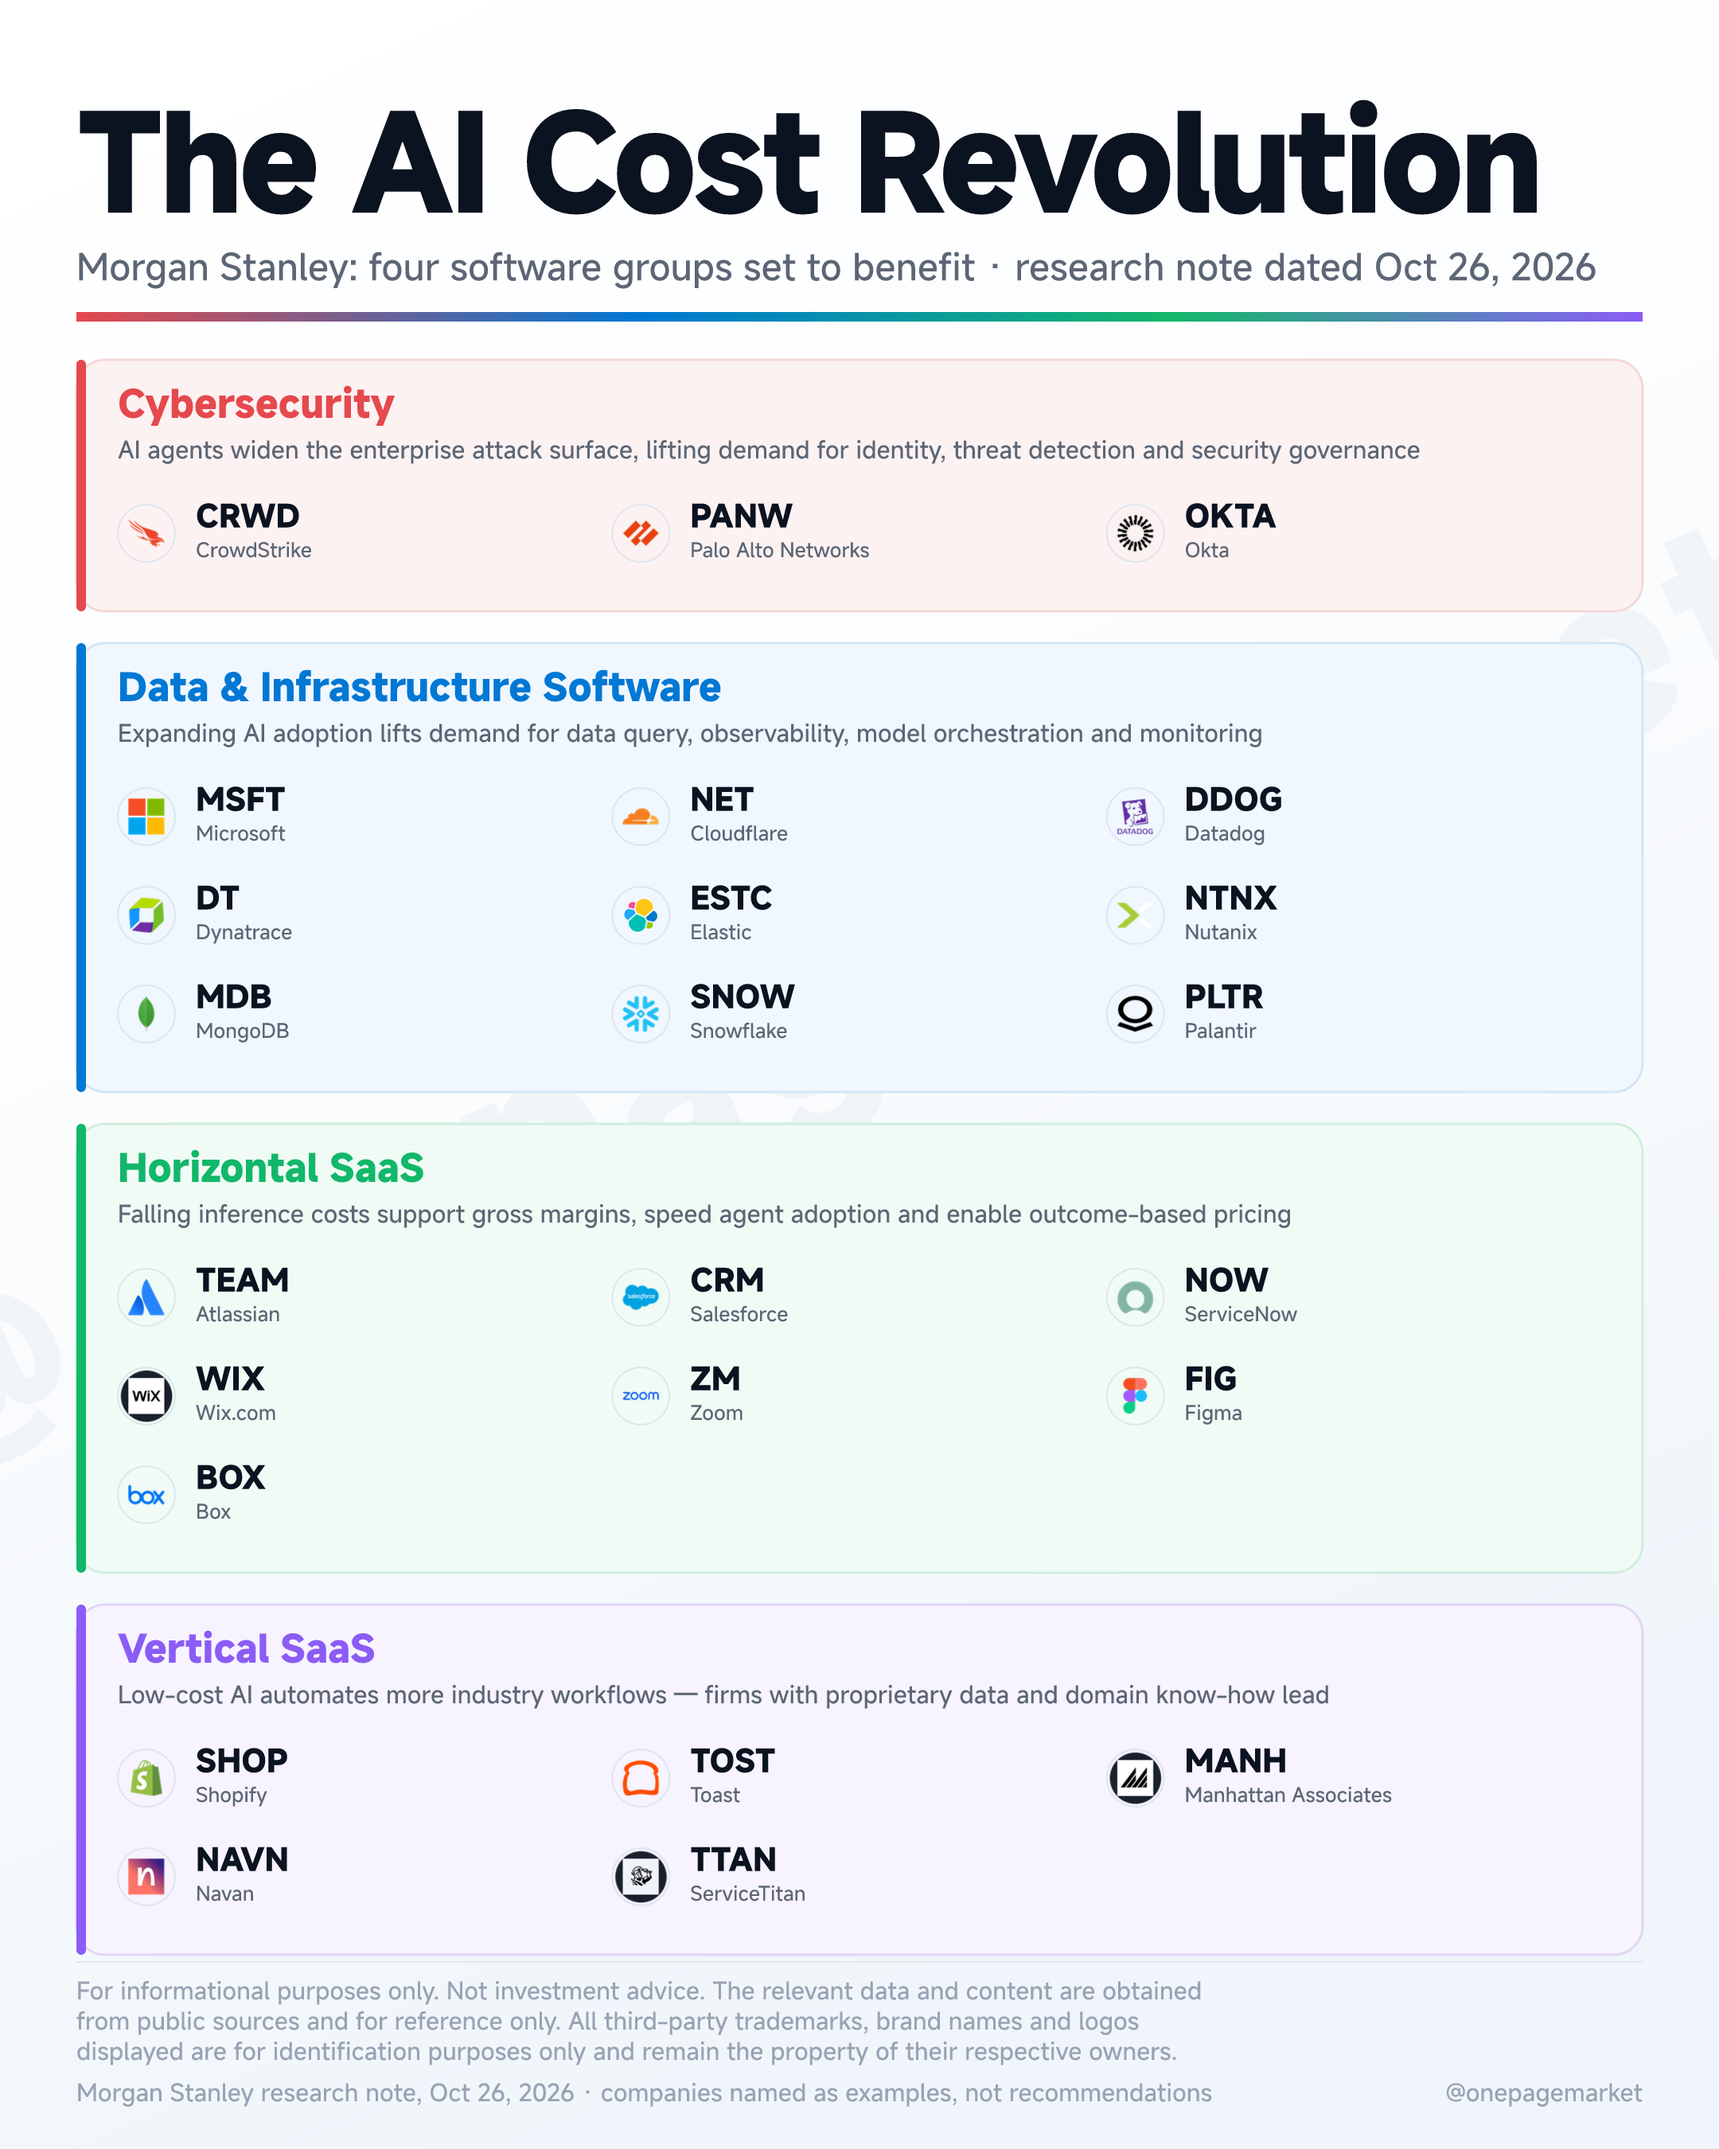
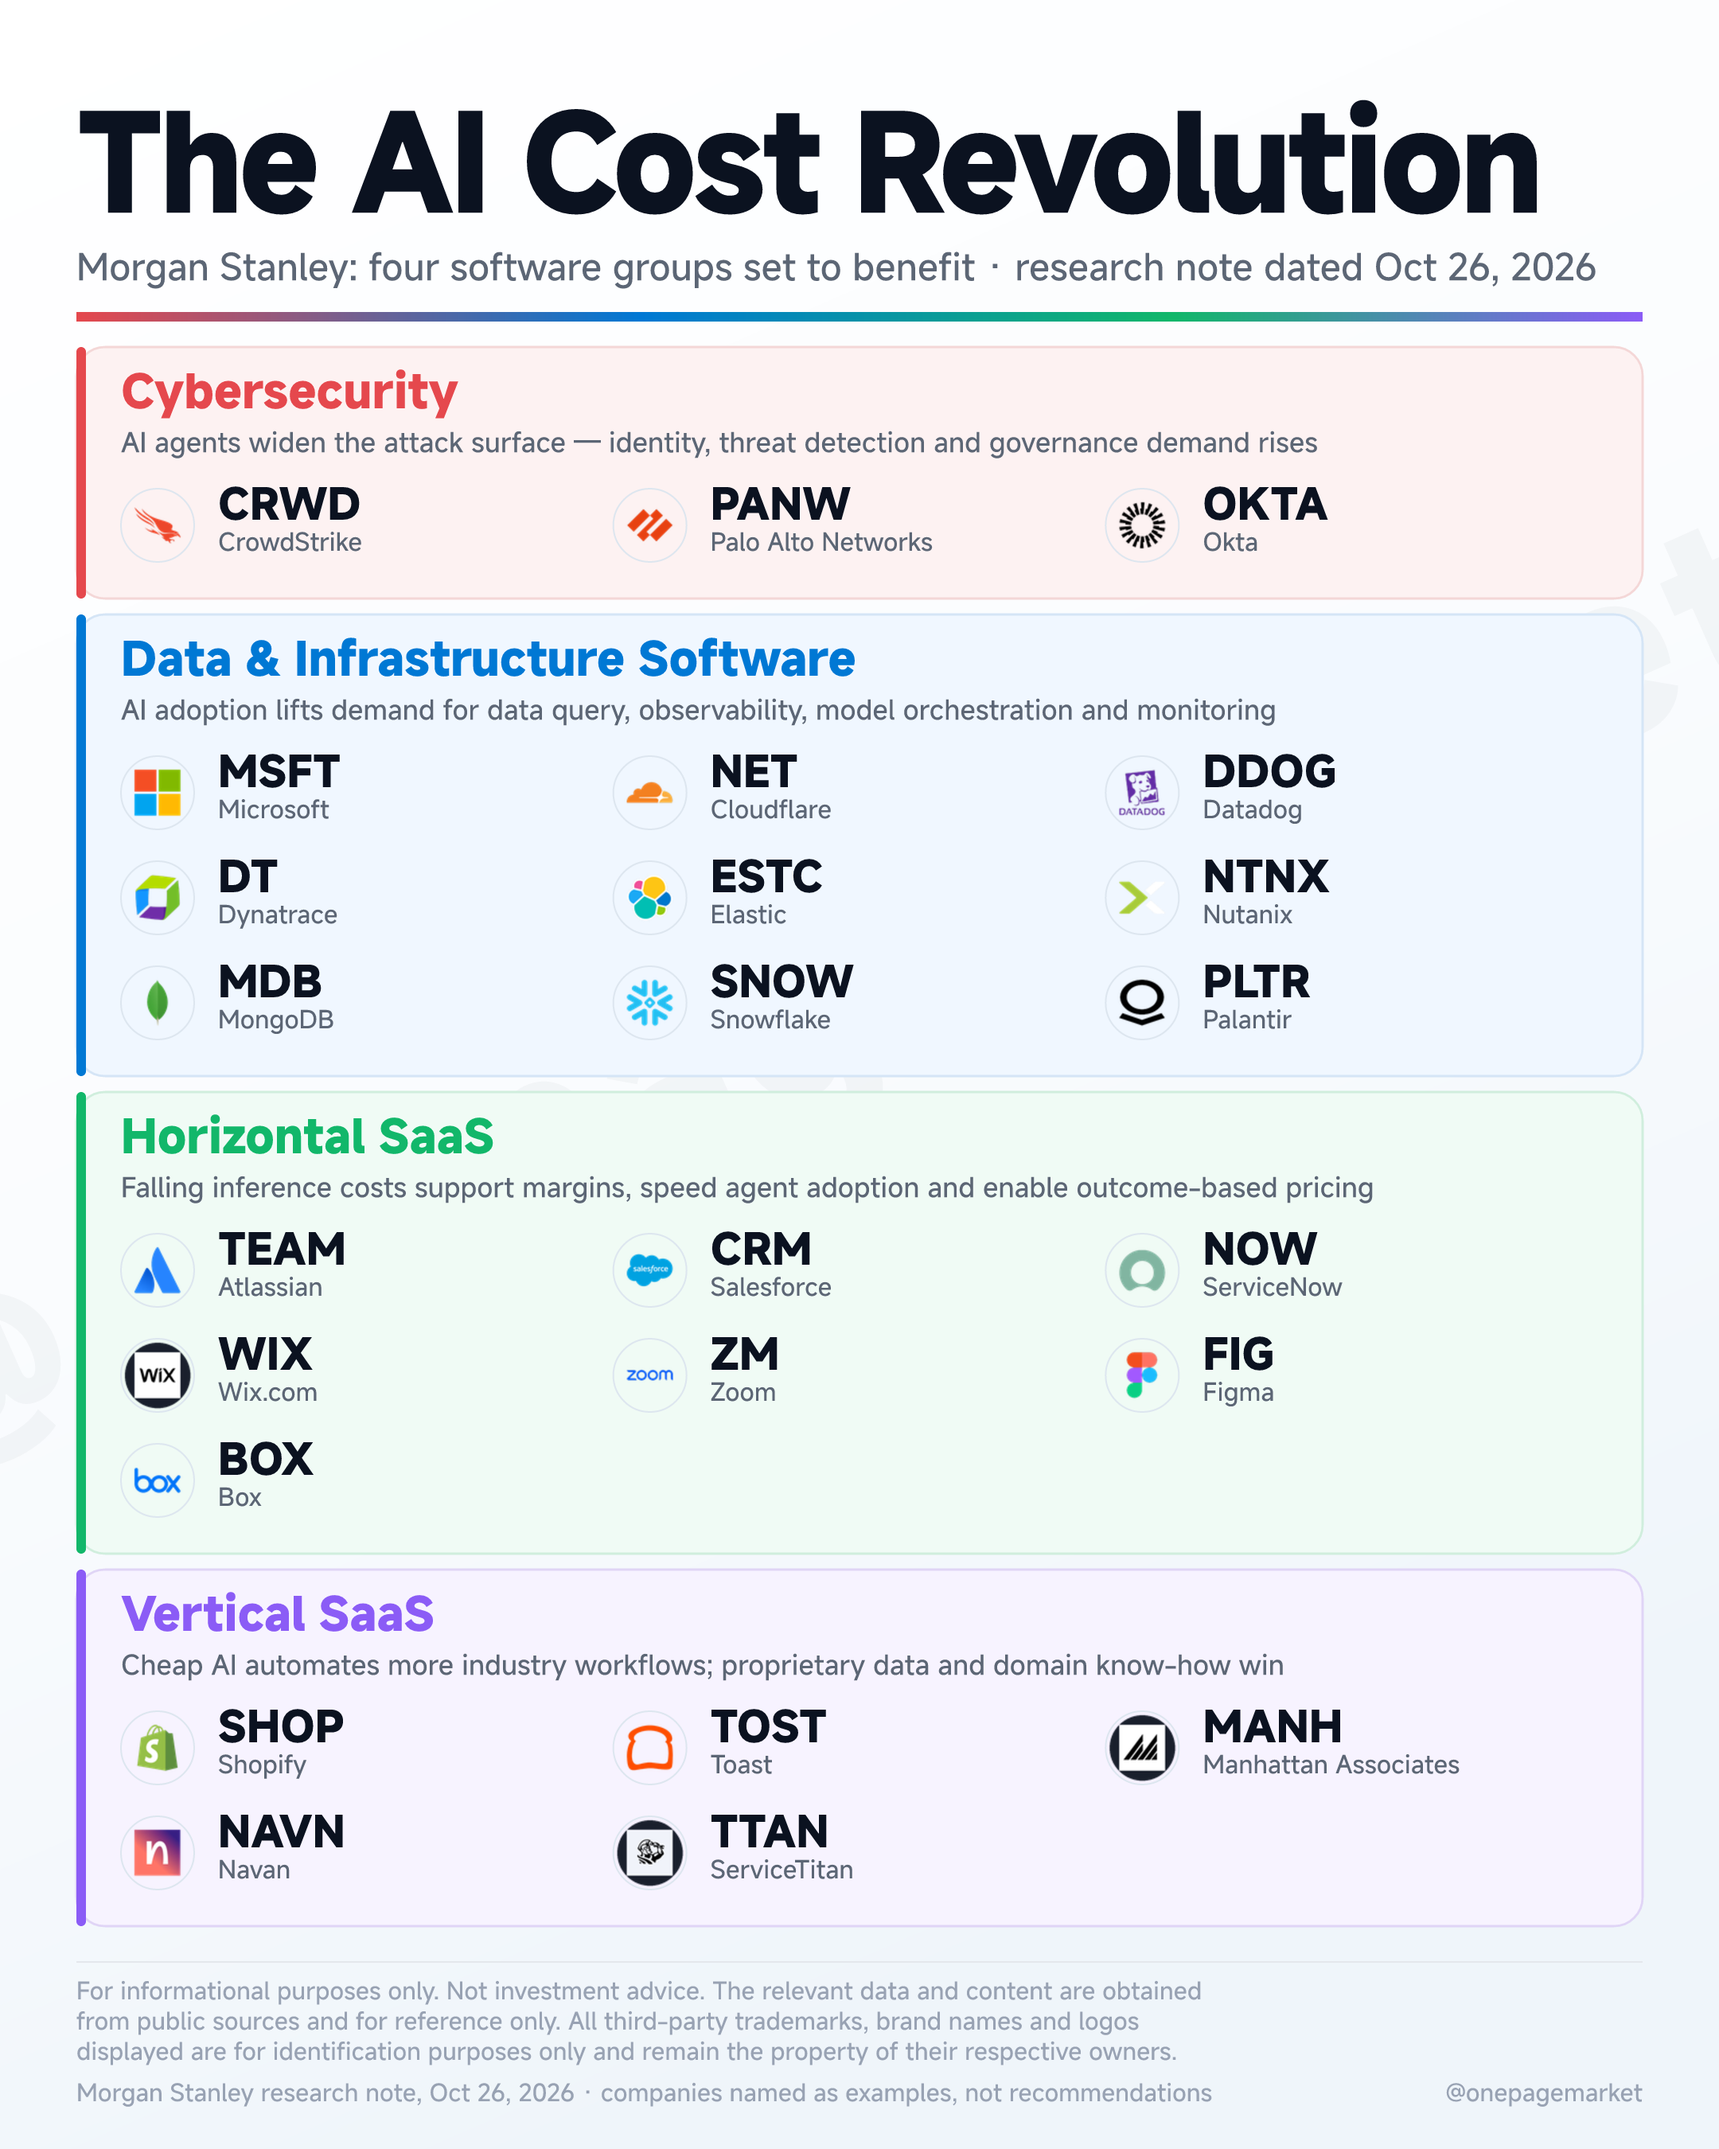
ms: bigger chips and type

diff --git a/scripts/build_ms_software.js b/scripts/build_ms_software.js
@@ -67,30 +67,30 @@ svg.push(t(M, 176, D.subtitle, { size: subSize, fill: C.gray }));
 svg.push(`<rect x="${M}" y="196" width="${CW}" height="6" fill="url(#ruleG)"/>`);
 
 /* ---------------- 四板塊區塊 ---------------- */
-const PAD = 26, ROW_H = 50, ROW_GAP = 12, SEC_GAP = 20;
+const PAD = 28, ROW_H = 56, ROW_GAP = 10, SEC_GAP = 10, SEC_HDR = 84;
 const COLS = 3;
 const COL_W = (CW - PAD * 2) / COLS;
-let y = 226;
+let y = 218;
 
 D.sections.forEach((sec) => {
   const rows = Math.ceil(sec.stocks.length / COLS);
-  const sh = 84 + rows * ROW_H + (rows - 1) * ROW_GAP + 24;
+  const sh = SEC_HDR + rows * ROW_H + (rows - 1) * ROW_GAP + 18;
 
   /* 區塊底 + 左色條 */
   svg.push(rrect(M, y, CW, sh, 18, sec.bg, `stroke="${sec.stroke}" stroke-width="1.4"`));
   svg.push(rrect(M, y, 6, sh, 3, sec.color));
 
   /* 板塊名 + 論點 */
-  svg.push(t(M + PAD, y + 36, sec.name, { size: 23, weight: 700, fill: sec.color }));
-  svg.push(t(M + PAD, y + 62, sec.desc, { size: 15, fill: C.gray }));
+  svg.push(t(M + PAD, y + 38, sec.name, { size: 28, weight: 700, fill: sec.color }));
+  svg.push(t(M + PAD, y + 66, sec.desc, { size: 17, fill: C.gray }));
 
   /* 標的 chip 網格 */
   sec.stocks.forEach((st, i) => {
     const col = i % COLS, row = Math.floor(i / COLS);
     const cx = M + PAD + col * COL_W;
-    const cy = y + 84 + row * (ROW_H + ROW_GAP);
+    const cy = y + SEC_HDR + row * (ROW_H + ROW_GAP);
 
-    const L = 36, lx = cx, lcy = cy + ROW_H / 2;
+    const L = 46, lx = cx, lcy = cy + ROW_H / 2;
     const uri = LOGOS[st.t];
     if (uri) {
       const cid = `lg${uid++}`;
@@ -100,10 +100,10 @@ D.sections.forEach((sec) => {
       svg.push(`<circle cx="${lx + L / 2}" cy="${lcy}" r="${L / 2}" fill="none" stroke="#DDE6EF" stroke-width="1"/>`);
     } else {
       svg.push(`<circle cx="${lx + L / 2}" cy="${lcy}" r="${L / 2}" fill="${sec.color}"/>`);
-      svg.push(t(lx + L / 2, lcy + 6, st.t.slice(0, 2), { size: 14, weight: 700, fill: '#FFFFFF', anchor: 'middle' }));
+      svg.push(t(lx + L / 2, lcy + 8, st.t.slice(0, 2), { size: 18, weight: 700, fill: '#FFFFFF', anchor: 'middle' }));
     }
-    svg.push(t(lx + L + 13, cy + 21, st.t, { size: 19, weight: 700 }));
-    svg.push(t(lx + L + 13, cy + 40, st.n, { size: 12.5, fill: C.gray }));
+    svg.push(t(lx + L + 15, cy + 24, st.t, { size: 26, weight: 700 }));
+    svg.push(t(lx + L + 15, cy + 44, st.n, { size: 15.5, fill: C.gray }));
   });
 
   y += sh + SEC_GAP;
